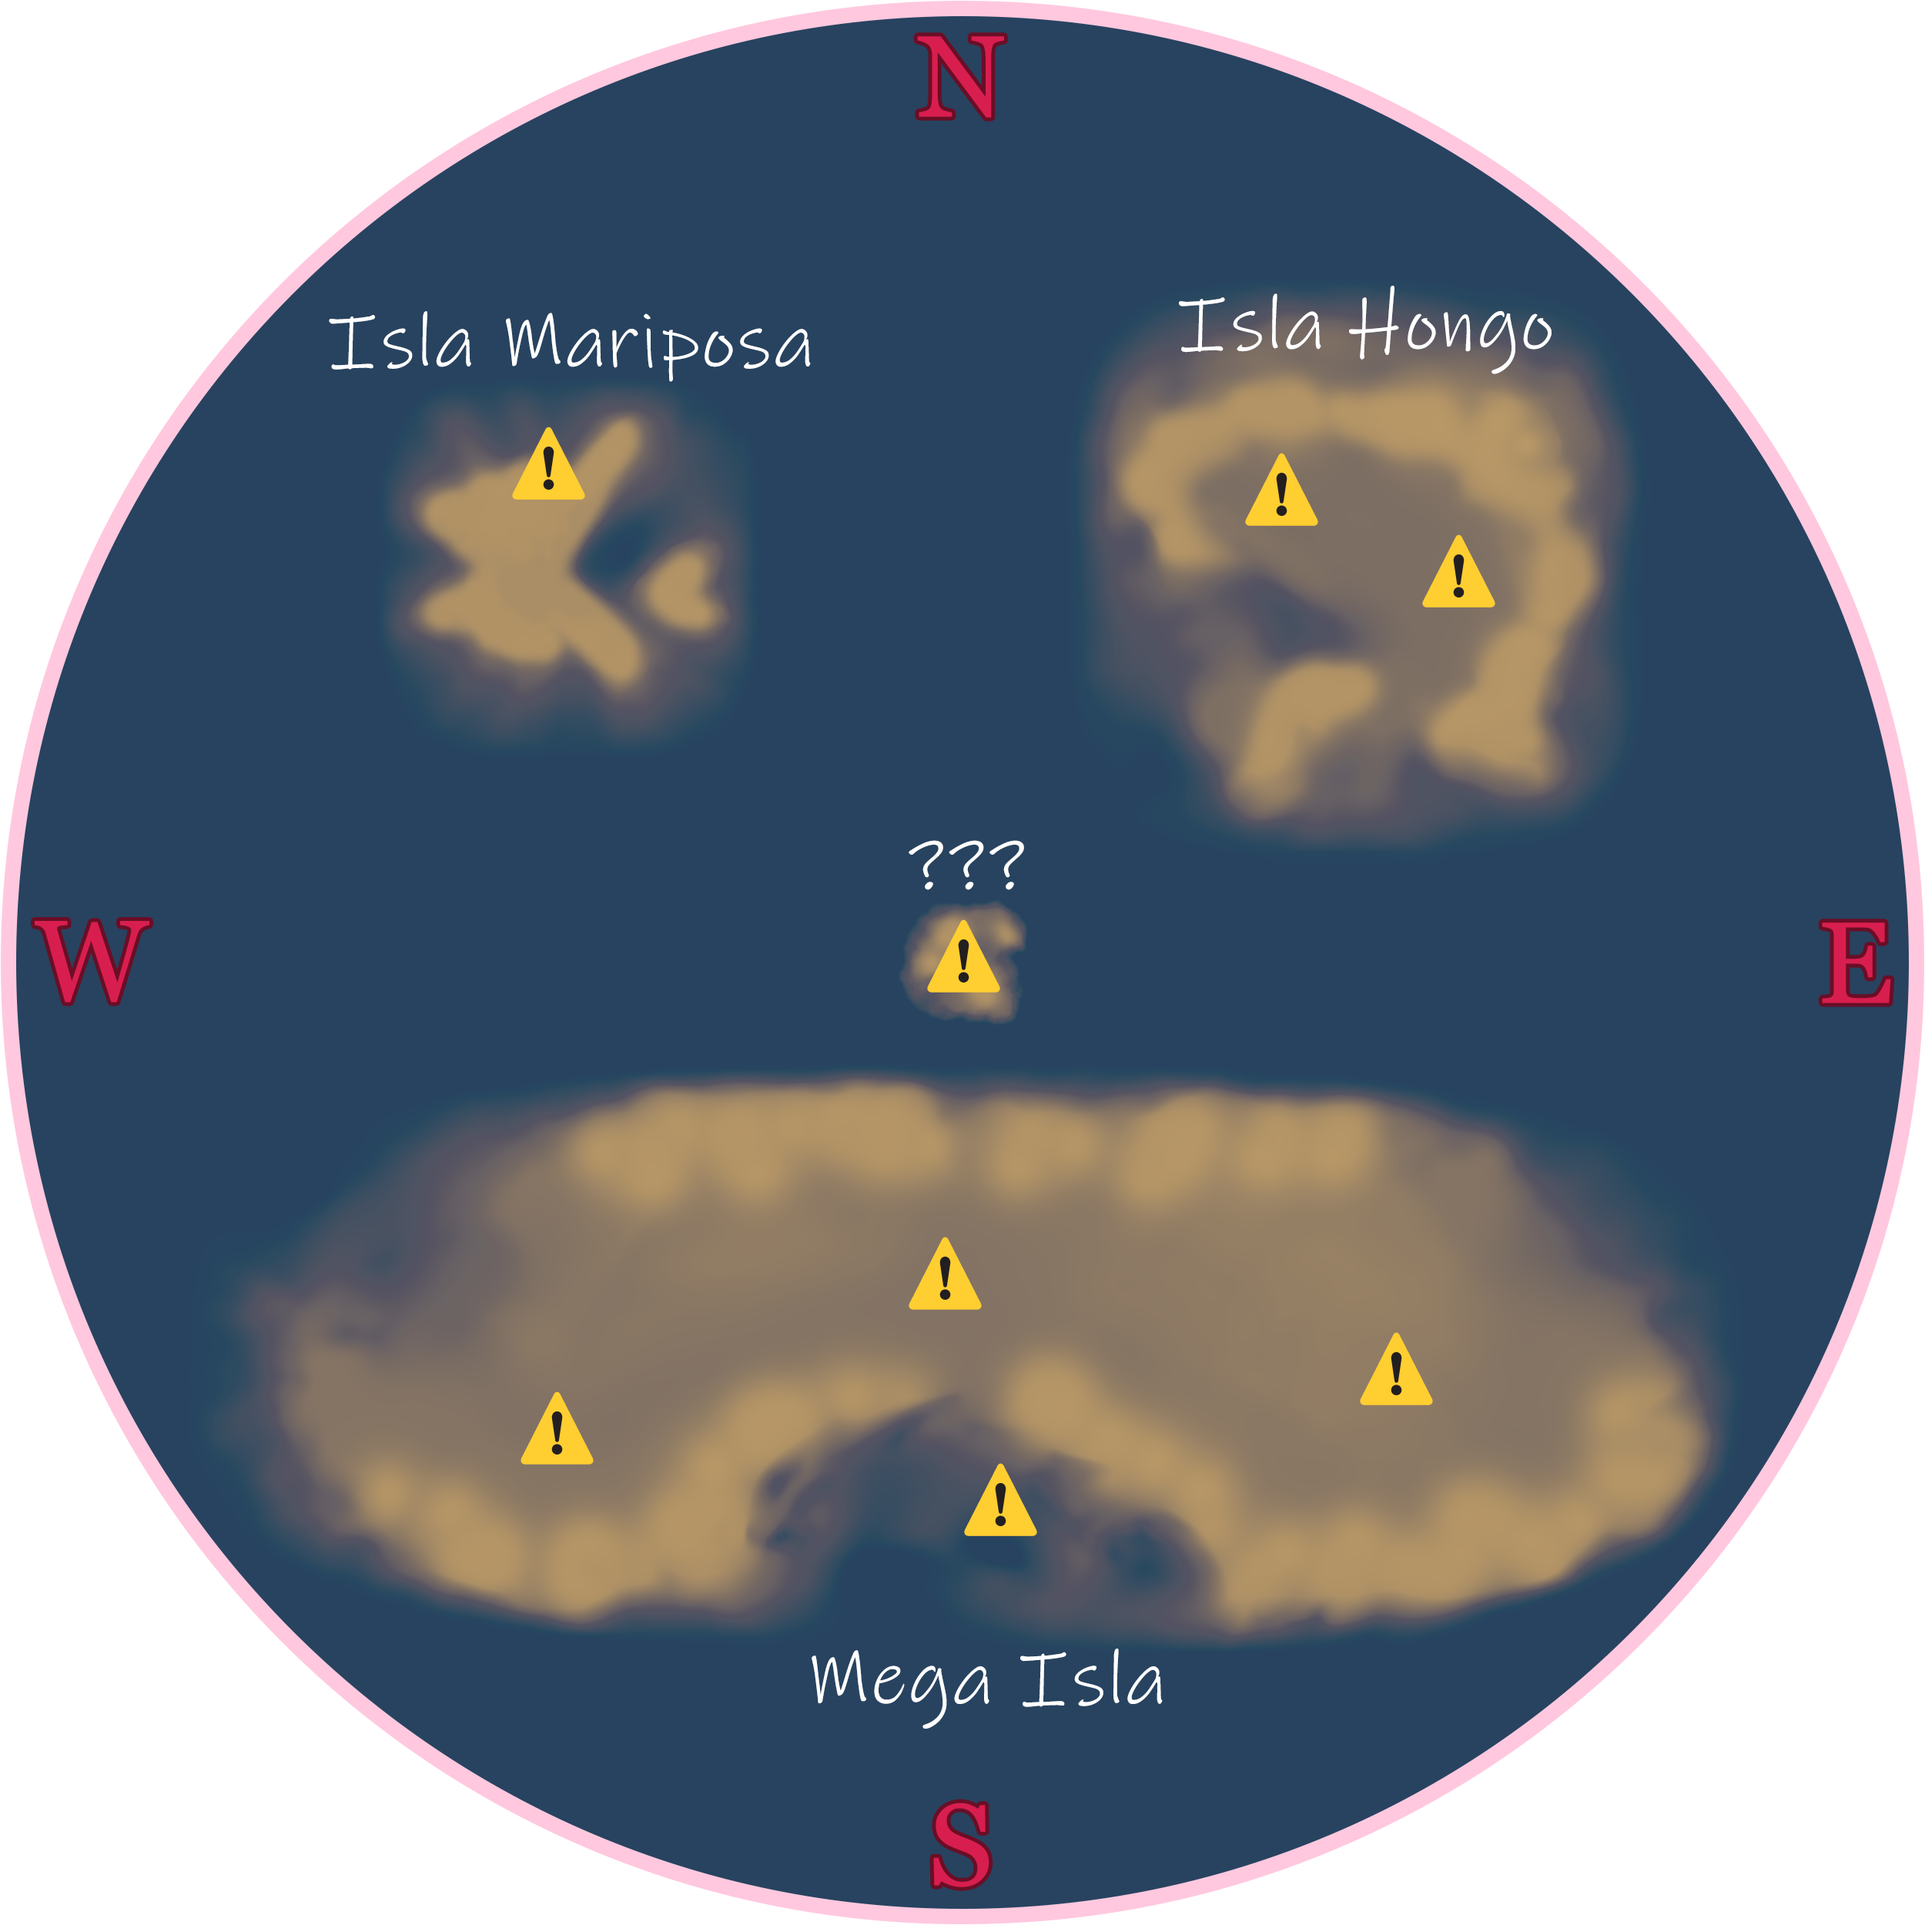
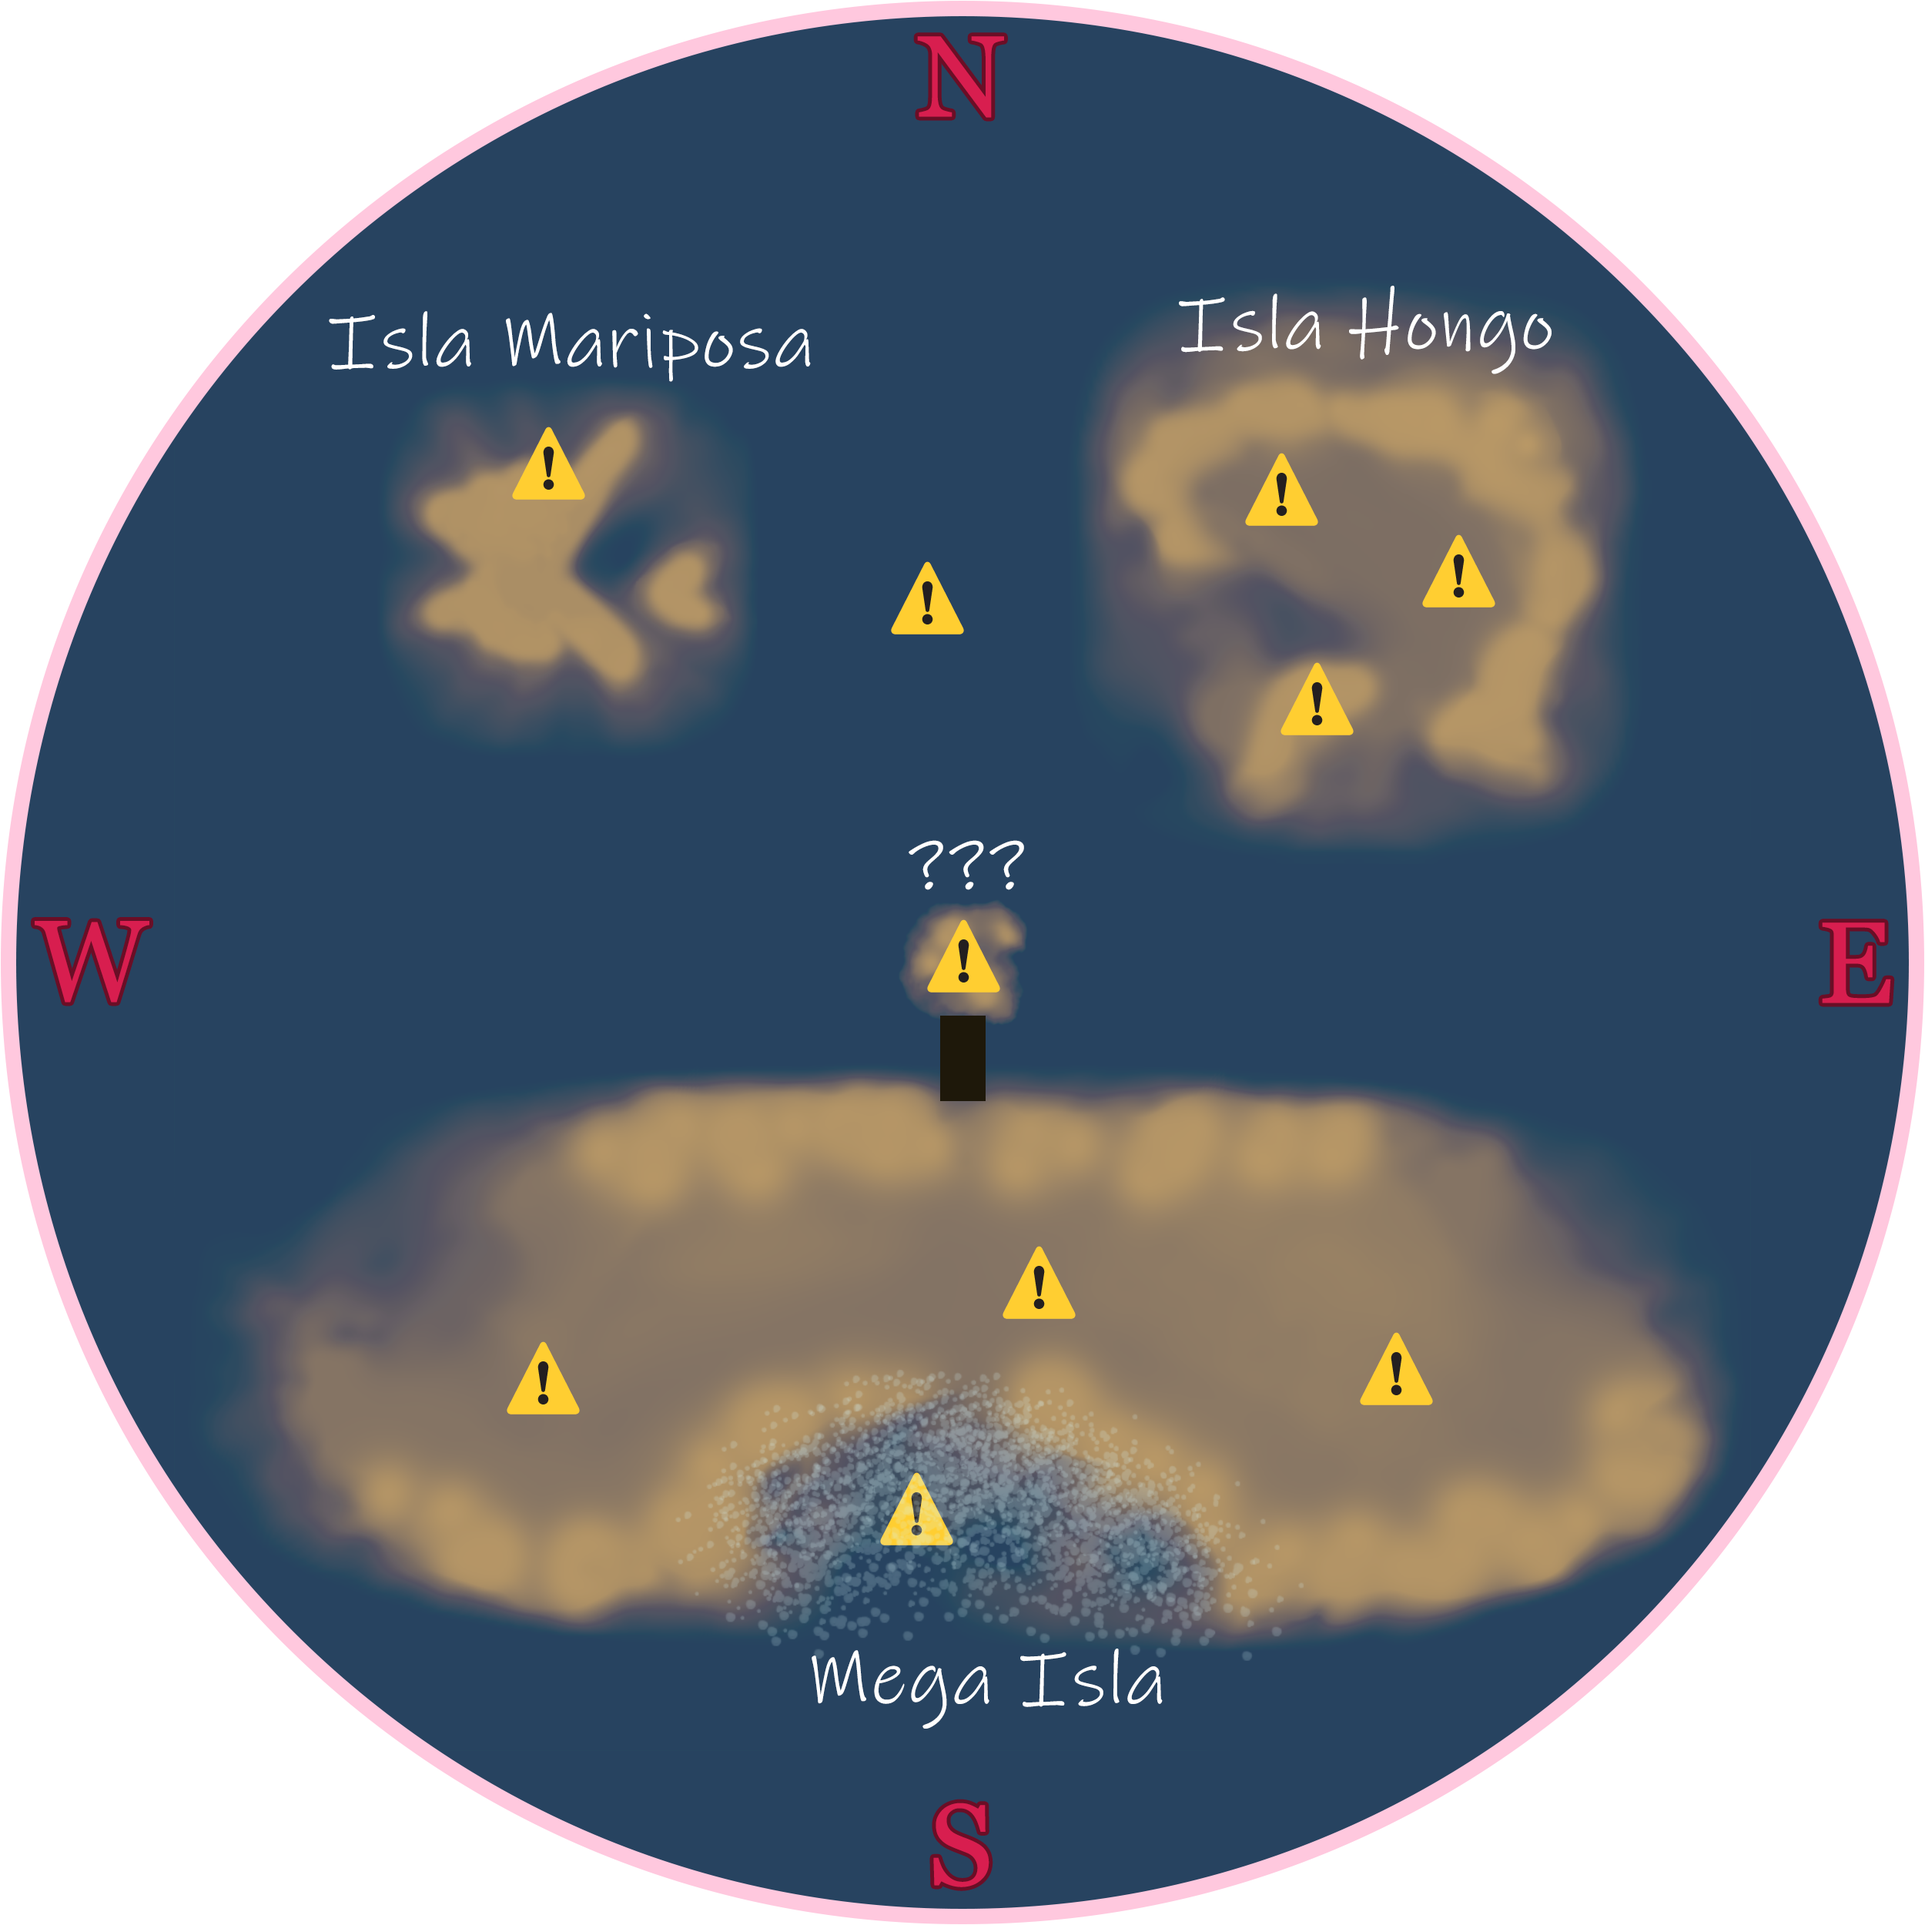
Added minimap locator. Changed liberty statue model. Changed oxygen depletion rate for testing. Added 4 more coins.

diff --git a/DemoTemplateOGL/DemoTemplateOGL/Scenario.cpp b/DemoTemplateOGL/DemoTemplateOGL/Scenario.cpp
@@ -116,22 +116,21 @@ void Scenario::InitGraph(Model *main) {
 	ourModel.emplace_back(tula);
 
 	// LIBERTY
-	float y_liberty = terreno->Superficie(-200, 250) + 15;
+	float y_liberty = terreno->Superficie(-225, 235) + 15;
 	Model* liberty = new Model("KA/Models/Structures/LibertyStatue.fbx", main->cameraDetails);
-	translate = glm::vec3(-200.0f, y_liberty, 250.0f);
+	translate = glm::vec3(-225.0f, y_liberty, 235.0f);
 	liberty->setTranslate(&translate);
 	liberty->setNextTranslate(&translate);
-	scale = glm::vec3(6.0f, 6.0f, 6.0f);
+	scale = glm::vec3(4.0f, 4.0f, 4.0f);
 	liberty->setScale(&scale);
-	liberty->setRotX(0);
-	liberty->setNextRotX(0);
-	//for (auto& attr : *liberty->getModelAttributes()) {
-	//	attr.hitbox = NULL;
-	//}
+	liberty->setRotX(90);
+	for (auto& attr : *liberty->getModelAttributes()) {
+		attr.hitbox = NULL;
+	}
 	ourModel.emplace_back(liberty);
 
 	// CNTOWER
-	float y_cntower = terreno->Superficie(0, 180)-3;
+	float y_cntower = terreno->Superficie(0, 180)-2.5;
 	Model* tower = new Model("KA/Models/Structures/CNTower.fbx", main->cameraDetails);
 	translate = glm::vec3(0.0f, y_cntower, 180.0f);
 	tower->setTranslate(&translate);
@@ -140,9 +139,9 @@ void Scenario::InitGraph(Model *main) {
 	tower->setScale(&scale);
 	tower->setRotX(-90);
 	tower->setNextRotX(-90);
-	//for (auto& attr : *tower->getModelAttributes()) {
-	//	attr.hitbox = NULL;
-	//}
+	for (auto& attr : *tower->getModelAttributes()) {
+		attr.hitbox = NULL;
+	}
 	ourModel.emplace_back(tower);
 
 	// STADIUM
@@ -162,6 +161,18 @@ void Scenario::InitGraph(Model *main) {
 	// Letrero Bienvenida
 	float y_sign = terreno->Superficie(-140, -180) + 1;
 	billBoard.emplace_back( new Billboard((WCHAR*)L"KA/Billboards/Signs/Welcome.png", 3, 3, -140, y_sign, -180, camara->cameraDetails)
+	);
+	// Letrero Monedas
+	y_sign = terreno->Superficie(-220, -220) + 1;
+	billBoard.emplace_back(new Billboard((WCHAR*)L"KA/Billboards/Signs/SignCoin.png", 3, 3, -220, y_sign, -220, camara->cameraDetails)
+	);
+	// Letrero Fun Fact #1
+	y_sign = terreno->Superficie(-140, -195) + 1;
+	billBoard.emplace_back(new Billboard((WCHAR*)L"KA/Billboards/FF/FF1.png", 3, 3, -140, y_sign, -195, camara->cameraDetails)
+	);
+	// Letrero Fun Fact #2
+	y_sign = terreno->Superficie(240, -160) + 1;
+	billBoard.emplace_back(new Billboard((WCHAR*)L"KA/Billboards/FF/FF2.png", 3, 3, 240, y_sign, -160, camara->cameraDetails)
 	);
 
 	// árbol 1
@@ -346,50 +357,93 @@ void Scenario::InitGraph(Model *main) {
 		ERRORL("Could not load spin animation!", "ANIMACION COIN");
 	}
 
-	//posCoin = glm::vec3(x, terreno->Superficie(x, y) + 2, y);
-	//coin = new Coin("KA/Models/Deco/Coin.fbx", main->cameraDetails);
-	//coin->setTranslate(&posCoin);
-	//coin->setNextTranslate(&posCoin);
-	//scale = glm::vec3(5, 5, 5);
-	//coin->setScale(&scale);
-	//for (auto& attr : *coin->getModelAttributes()) {
-	//	attr.hitbox = NULL;
-	//}
-	//ourModel.emplace_back(coin);
-	//try {
-	//	std::vector<Animation> animations = Animation::loadAllAnimations("KA/Animations/Deco/Coin_Spin.fbx", coin->GetBoneInfoMap(), coin->getBonesInfo(), coin->GetBoneCount());
-	//	std::vector<Animation> animation = Animation::loadAllAnimations("KA/Animations/Deco/Coin_Spin.fbx", coin->GetBoneInfoMap(), coin->getBonesInfo(), coin->GetBoneCount());
-	//	std::move(animation.begin(), animation.end(), std::back_inserter(animations));
-	//	for (Animation animation : animations)
-	//		coin->setAnimator(Animator(animation));
-	//	coin->setAnimation(1);
-	//}
-	//catch (...) {
-	//	ERRORL("Could not load spin animation!", "ANIMACION COIN");
-	//}
+	posCoin = glm::vec3(-210, terreno->Superficie(-210, 215) + 2, 215);
+	coin = new Coin("KA/Models/Deco/Coin.fbx", main->cameraDetails);
+	coin->setTranslate(&posCoin);
+	coin->setNextTranslate(&posCoin);
+	scale = glm::vec3(5, 5, 5);
+	coin->setScale(&scale);
+	for (auto& attr : *coin->getModelAttributes()) {
+		attr.hitbox = NULL;
+	}
+	ourModel.emplace_back(coin);
+	try {
+		std::vector<Animation> animations = Animation::loadAllAnimations("KA/Animations/Deco/Coin_Spin.fbx", coin->GetBoneInfoMap(), coin->getBonesInfo(), coin->GetBoneCount());
+		std::vector<Animation> animation = Animation::loadAllAnimations("KA/Animations/Deco/Coin_Spin.fbx", coin->GetBoneInfoMap(), coin->getBonesInfo(), coin->GetBoneCount());
+		std::move(animation.begin(), animation.end(), std::back_inserter(animations));
+		for (Animation animation : animations)
+			coin->setAnimator(Animator(animation));
+		coin->setAnimation(1);
+	}
+	catch (...) {
+		ERRORL("Could not load spin animation!", "ANIMACION COIN");
+	}
 
+	posCoin = glm::vec3(-20, terreno->Superficie(-20, -185) + 2, -185);
+	coin = new Coin("KA/Models/Deco/Coin.fbx", main->cameraDetails);
+	coin->setTranslate(&posCoin);
+	coin->setNextTranslate(&posCoin);
+	scale = glm::vec3(5, 5, 5);
+	coin->setScale(&scale);
+	for (auto& attr : *coin->getModelAttributes()) {
+		attr.hitbox = NULL;
+	}
+	ourModel.emplace_back(coin);
+	try {
+		std::vector<Animation> animations = Animation::loadAllAnimations("KA/Animations/Deco/Coin_Spin.fbx", coin->GetBoneInfoMap(), coin->getBonesInfo(), coin->GetBoneCount());
+		std::vector<Animation> animation = Animation::loadAllAnimations("KA/Animations/Deco/Coin_Spin.fbx", coin->GetBoneInfoMap(), coin->getBonesInfo(), coin->GetBoneCount());
+		std::move(animation.begin(), animation.end(), std::back_inserter(animations));
+		for (Animation animation : animations)
+			coin->setAnimator(Animator(animation));
+		coin->setAnimation(1);
+	}
+	catch (...) {
+		ERRORL("Could not load spin animation!", "ANIMACION COIN");
+	}
 
-	// Map
-	Billboard2D* miniMap = new Billboard2D(
-		(WCHAR*)L"KA/Billboards/Map.png",
-		12, 12,
-		1920 - 250, 250, 0,
-		camara->cameraDetails
-	);
-	scale = glm::vec3(450, 450, 0);
-	miniMap->setScale(&scale);
-	billBoard2D.emplace_back(miniMap);
+	posCoin = glm::vec3(35, terreno->Superficie(35, 170) + 2, 170);
+	coin = new Coin("KA/Models/Deco/Coin.fbx", main->cameraDetails);
+	coin->setTranslate(&posCoin);
+	coin->setNextTranslate(&posCoin);
+	scale = glm::vec3(5, 5, 5);
+	coin->setScale(&scale);
+	for (auto& attr : *coin->getModelAttributes()) {
+		attr.hitbox = NULL;
+	}
+	ourModel.emplace_back(coin);
+	try {
+		std::vector<Animation> animations = Animation::loadAllAnimations("KA/Animations/Deco/Coin_Spin.fbx", coin->GetBoneInfoMap(), coin->getBonesInfo(), coin->GetBoneCount());
+		std::vector<Animation> animation = Animation::loadAllAnimations("KA/Animations/Deco/Coin_Spin.fbx", coin->GetBoneInfoMap(), coin->getBonesInfo(), coin->GetBoneCount());
+		std::move(animation.begin(), animation.end(), std::back_inserter(animations));
+		for (Animation animation : animations)
+			coin->setAnimator(Animator(animation));
+		coin->setAnimation(1);
+	}
+	catch (...) {
+		ERRORL("Could not load spin animation!", "ANIMACION COIN");
+	}
 
-	// Pointer
-	Billboard2D* locator = new Billboard2D(
-		(WCHAR*)L"KA/Billboards/Locator.png",
-		2, 2,
-		1920 - 250, 250, 0,
-		camara->cameraDetails
-	);
-	scale = glm::vec3(20, 20, 0);
-	locator->setScale(&scale);
-	billBoard2D.emplace_back(locator);
+	posCoin = glm::vec3(-25, terreno->Superficie(-25, 290) + 2, 290);
+	coin = new Coin("KA/Models/Deco/Coin.fbx", main->cameraDetails);
+	coin->setTranslate(&posCoin);
+	coin->setNextTranslate(&posCoin);
+	scale = glm::vec3(5, 5, 5);
+	coin->setScale(&scale);
+	for (auto& attr : *coin->getModelAttributes()) {
+		attr.hitbox = NULL;
+	}
+	ourModel.emplace_back(coin);
+	try {
+		std::vector<Animation> animations = Animation::loadAllAnimations("KA/Animations/Deco/Coin_Spin.fbx", coin->GetBoneInfoMap(), coin->getBonesInfo(), coin->GetBoneCount());
+		std::vector<Animation> animation = Animation::loadAllAnimations("KA/Animations/Deco/Coin_Spin.fbx", coin->GetBoneInfoMap(), coin->getBonesInfo(), coin->GetBoneCount());
+		std::move(animation.begin(), animation.end(), std::back_inserter(animations));
+		for (Animation animation : animations)
+			coin->setAnimator(Animator(animation));
+		coin->setAnimation(1);
+	}
+	catch (...) {
+		ERRORL("Could not load spin animation!", "ANIMACION COIN");
+	}
 
 	
 }
@@ -502,6 +556,7 @@ Scene* Scenario::Render() {
 	Axolotl* axo = getMainAxolotl();
 	if (axo) {
 		axo->updateOxygenByPosition(gameTime.deltaTime/100);
+		axo->updateLocatorPosition();
 	}
 	for (auto& m : ourModel) {
 		Coin* c = dynamic_cast<Coin*>(m);
